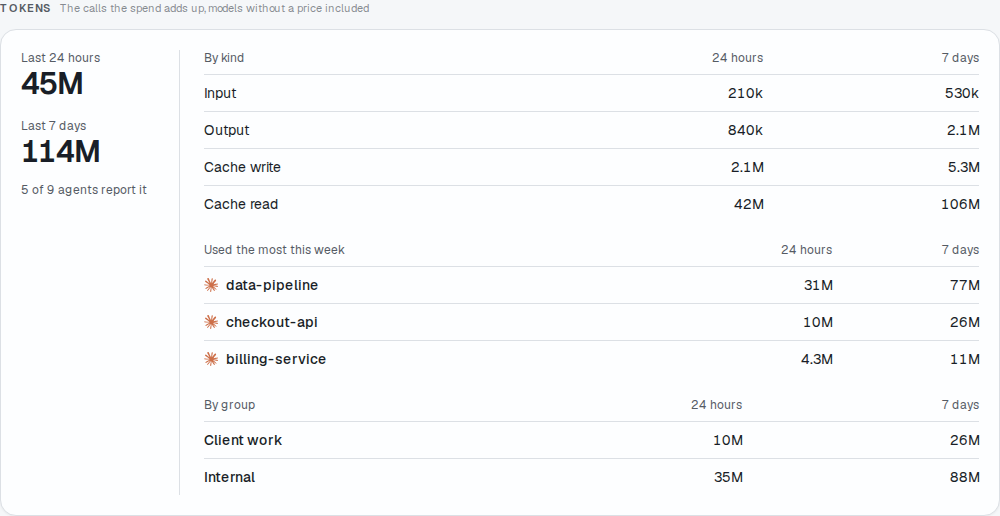
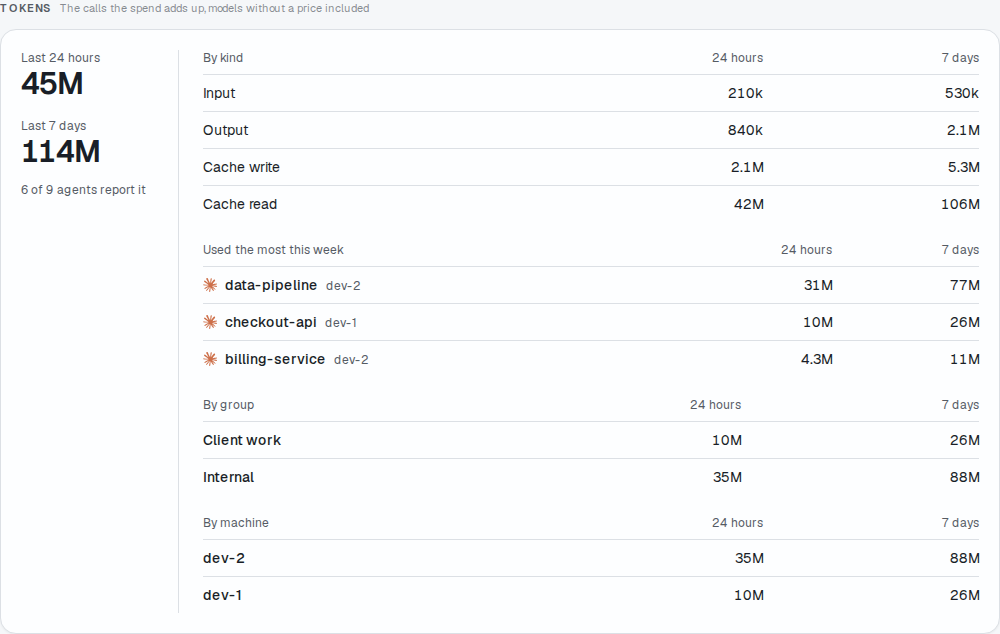
docs: screenshot By machine and the bar's switch
New hub-machines.png (Groups with By machine) and hub-machines-recent.png
(Recent changes with By machine); hub-instance.png, hub-phone-chat.png and
demo-hub.gif show the bar's switch, and hub-spend/tokens/work.png the By
machine tables. The demo agents all run on one machine, so the capture
script has the hub pages see them on three (dev-1 to dev-3).

diff --git a/docs/screenshots/README.md b/docs/screenshots/README.md
@@ -24,8 +24,11 @@ uncommitted changes):
   version (`AGENTAPI_OLDER_BINARY`), so that it shows as older than the hub: 2.0.0 beside the
   hub's 3.1.0 in the screenshots. The hub starts on a file that says how long each instance
   worked over the last week, as a hub that watched them would keep it, since a demo doesn't run
-  for hours. A second, empty hub shows the guide for the first agents. The rows name the machine;
-  the screenshots show placeholders (`dev-1` and so on).
+  for hours. A second, empty hub shows the guide for the first agents. The instances all run on
+  one machine, so the hub's page gets them as if they ran on three, named `dev-1` to `dev-3`: the
+  script renames each one's machine in the hub's events before the page reads them. The rows, the
+  By machine views, the overview's cards and the switch of a machine's agents show these names.
+  Screenshots taken before 3.2.0 show `dev-1` and so on in turn, row by row.
 
 ## Gallery
 
@@ -71,21 +74,23 @@ device scale factor of 1.
 | [login-card.png](login-card.png) | A login card |
 | [hub-desktop.png](hub-desktop.png) | The hub's overview: how many need you, a tile per state, a card per request, what runs and what finished |
 | [hub-desktop-dark.png](hub-desktop-dark.png) | The same overview in the dark theme |
-| [hub-instance.png](hub-instance.png) | An agent open beside the list, its approval ready to answer |
+| [hub-instance.png](hub-instance.png) | An agent open beside the list, its approval ready to answer, with its machine's agents in the bar |
 | [hub-empty.png](hub-empty.png) | The guide an empty hub shows: the hub's address, the join command and a prompt for an agent on the machine, the secret masked |
 | [hub-sign-in.png](hub-sign-in.png) | Signing in to the hub, beside its picture of agents in their states |
 | [hub-list.png](hub-list.png) | The hub's list: two pinned agents, then two groups and Ungrouped, with every state's glyph: approval, question, login, usage limit, working, finished, idle, unreachable, stopped; and each agent's AgentAPI version, one older than the hub |
 | [hub-add.png](hub-add.png) | The Add dialog: joining a machine (the hub's address, updates from the hub, the command and a prompt for an agent, the secret masked), or adding an instance by its URL and token |
 | [hub-recent.png](hub-recent.png) | The hub's list by the agents' latest changes: the pinned agents, then one list without group headers, the most recent first, and each row's group where it has room |
+| [hub-machines.png](hub-machines.png) | The hub's list By machine in the groups: the pinned agents, then each group with a card per machine: the machine with its version and spend once, a tab per agent with its state's dot, and the picked agent below, one older than the hub |
+| [hub-machines-recent.png](hub-machines-recent.png) | The hub's list By machine in the recent order: the pinned agents, then a card per machine without group headers, the machine of the latest change first, each with the age of that change and the agent that changed last |
 | [hub-agent-filter.png](hub-agent-filter.png) | The hub's list filtered by agent and state: Claude Code and Codex, those that need you |
 | [hub-phone.png](hub-phone.png) | The hub's list on a phone: the pinned agents, then the groups |
 | [hub-phone-menu.png](hub-phone-menu.png) | A row's menu on a phone: Pin to top, its group, a new one, and Forget |
 | [hub-muted.png](hub-muted.png) | The list on a phone with an agent's login wait muted |
-| [hub-spend.png](hub-spend.png) | The overview's Spend card: the last 24 hours and 7 days, and the agents that spent the most |
-| [hub-tokens.png](hub-tokens.png) | The overview's Tokens card: the last 24 hours and 7 days, by kind, the agents that used the most, and each group |
-| [hub-work.png](hub-work.png) | The overview's Work time card: the last 24 hours and 7 days, the agents that worked the most, and each group |
+| [hub-spend.png](hub-spend.png) | The overview's Spend card: the last 24 hours and 7 days, the agents that spent the most with their machines, and each machine |
+| [hub-tokens.png](hub-tokens.png) | The overview's Tokens card: the last 24 hours and 7 days, by kind, the agents that used the most, each group and each machine |
+| [hub-work.png](hub-work.png) | The overview's Work time card: the last 24 hours and 7 days, the agents that worked the most, each group and each machine |
 | [hub-versions.png](hub-versions.png) | The overview's Versions card: how many agents run each AgentAPI version, on which machines, and how to update the older ones |
-| [hub-phone-chat.png](hub-phone-chat.png) | An instance open from the hub on a phone, with the way back to the list |
+| [hub-phone-chat.png](hub-phone-chat.png) | An instance open from the hub on a phone, with the way back to the list and its machine's agents |
 
 The GIFs use a 1100 × 720 window, or 390 × 844 for the phone view. A blue dot marks the pointer and
 clicks because headless Chromium draws no pointer. Frames store only changed pixels to keep files
